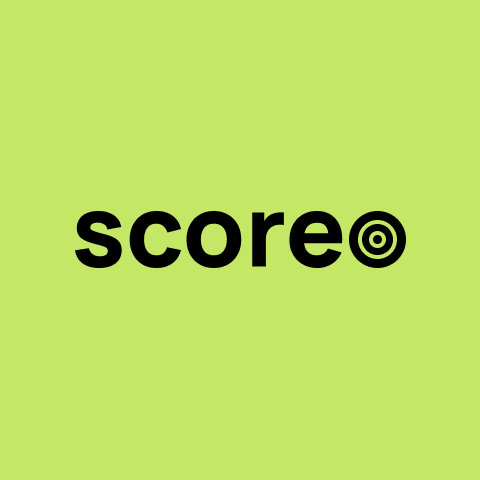
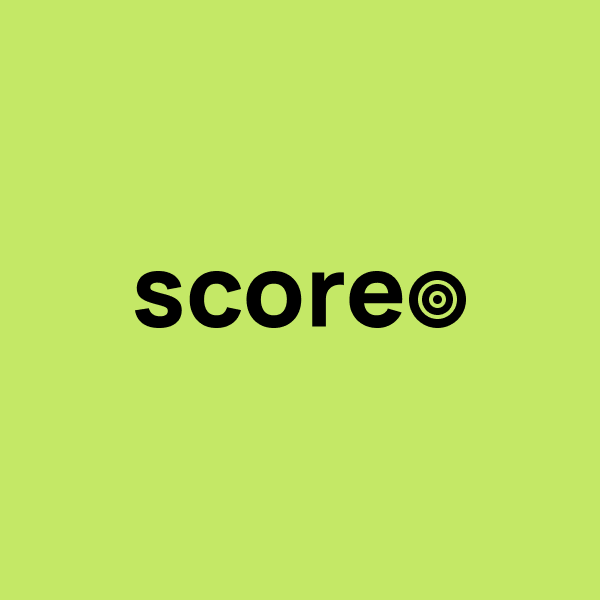
Add IntroScreen with scoreo_animation.mp4

Changed region(s): [[0.1562, 0.4375, 0.8438, 0.5625]]

diff --git a/frontend/src/screens/Intro/IntroScreen.tsx b/frontend/src/screens/Intro/IntroScreen.tsx
@@ -1,0 +1,62 @@
+import React, { useEffect } from 'react';
+import { StyleSheet, View } from 'react-native';
+import { useVideoPlayer, VideoView } from 'expo-video';
+import { useNavigation, CommonActions } from '@react-navigation/native';
+import { theme } from '../../theme/theme';
+
+const videoSource = require('../../../assets/scoreo_animation.mp4');
+
+export const IntroScreen = () => {
+    const navigation = useNavigation();
+
+    // 1. Inicializamos el reproductor
+    const player = useVideoPlayer(videoSource, (player) => {
+        player.loop = false;
+        player.play();
+    });
+
+    const handleNavigation = () => {
+        navigation.dispatch(
+            CommonActions.reset({
+                index: 0,
+                routes: [{ name: 'Login' }],
+            })
+        );
+    };
+
+    // 2. Escuchamos cuando el video termina
+    useEffect(() => {
+        const subscription = player.addListener('playToEnd', () => {
+            handleNavigation();
+        });
+
+        return () => {
+            subscription.remove();
+        };
+    }, [player]);
+
+    return (
+        <View style={styles.container}>
+            {/* 3. Usamos VideoView en lugar de Video */}
+            <VideoView
+                player={player}
+                style={styles.video}
+                contentMode="contain" // Equivale a ResizeMode.CONTAIN
+                nativeControls={false} // Quitamos los controles de play/pausa
+            />
+        </View>
+    );
+};
+
+const styles = StyleSheet.create({
+    container: {
+        flex: 1,
+        backgroundColor: theme.colors.background,
+        justifyContent: 'center',
+        alignItems: 'center',
+    },
+    video: {
+        width: '80%',
+        aspectRatio: 1,
+    },
+});

diff --git a/frontend/src/screens/Home/HomeScreen.tsx b/frontend/src/screens/Home/HomeScreen.tsx
@@ -19,32 +19,28 @@ export const HomeScreen = ({ route, navigation }) => {
     }
   };
 
-  const renderGameItem = ({ item }) => {
-    console.log(recentGames);
-    console.log(item);
-    return (
-      <Card style={styles.gameCard}>
-        <View style={styles.gameIconContainer}>
-          <Feather name="rotate-ccw" size={20} color={theme.colors.textSecondary} />
-        </View>
-        <View style={styles.gameInfo}>
-          <Text style={styles.gameTitle}>
-            {item.title}
-          </Text>
-          <Text style={styles.gamePlayers}>
-            {item.numPlayers} {item.numPlayers > 1 ? 'jugadores' : 'jugador'}
-          </Text>
-        </View>
-        <TouchableOpacity
-          style={styles.playButton}
-          activeOpacity={0.7}
-          onPress={() => onPressPlayRecent(item.config)}
-        >
-          <Feather name="play" size={20} color={theme.colors.textSecondary} />
-        </TouchableOpacity>
-      </Card>
-    );
-  };
+  const renderGameItem = ({ item, index }) => (
+    <Card key={item.id || index} style={styles.gameCard}>
+      <View style={styles.gameIconContainer}>
+        <Feather name="rotate-ccw" size={20} color={theme.colors.textSecondary} />
+      </View>
+      <View style={styles.gameInfo}>
+        <Text style={styles.gameTitle}>
+          {item.title}
+        </Text>
+        <Text style={styles.gamePlayers}>
+          {item.numPlayers} {item.numPlayers > 1 ? 'jugadores' : 'jugador'}
+        </Text>
+      </View>
+      <TouchableOpacity
+        style={styles.playButton}
+        activeOpacity={0.7}
+        onPress={() => onPressPlayRecent(item.config)}
+      >
+        <Feather name="play" size={20} color={theme.colors.textSecondary} />
+      </TouchableOpacity>
+    </Card>
+  );
 
   return (
     <ScrollView
@@ -79,7 +75,7 @@ export const HomeScreen = ({ route, navigation }) => {
         <Text style={styles.sectionTitle}>PARTIDAS RECIENTES</Text>
         <View style={styles.listContainer}>
           {recentGames && recentGames.length > 0 ? (
-            recentGames.map((game) => renderGameItem({ item: game }))
+            recentGames.map((game, index) => renderGameItem({ item: game, index }))
           ) : (
             <Text style={styles.emptyText}>
               No se han encontrado partidas recientes

diff --git a/frontend/src/navigation/AppNavigator.tsx b/frontend/src/navigation/AppNavigator.tsx
@@ -1,16 +1,20 @@
 import React from 'react';
 import { NavigationContainer } from '@react-navigation/native';
 import { createNativeStackNavigator } from '@react-navigation/native-stack';
+
+import { IntroScreen } from '../screens/Intro/IntroScreen';
 import { LoginScreen } from '../screens/Login/LoginScreen';
 import { HomeScreen } from '../screens/Home/HomeScreen';
 import { ConfigX01Screen } from '../screens/ConfigX01/ConfigX01Screen';
 import { GameX01Screen } from '../screens/GameX01/GameX01Screen';
 import { MatchX01SummaryScreen } from '../screens/MatchX01Summary/MatchX01SummaryScreen';
-import { theme } from '../theme/theme';
-
 import { MyProfileScreen } from '../screens/MyProfile/MyProfileScreen';
 
+import { theme } from '../theme/theme';
+
+
 export type AppStackParamList = {
+  Intro: undefined;
   Login: undefined;
   HomeScreen: undefined;
   ConfigX01: undefined;
@@ -46,6 +50,11 @@ export const AppNavigator = () => {
           headerRight: () => <AvatarDropdown />,
         }}
       >
+        <Stack.Screen
+          name="Intro"
+          component={IntroScreen}
+          options={{ title: 'scoreo' }}
+        />
         <Stack.Screen
           name="Login"
           component={LoginScreen}

diff --git a/backend/src/infrastructure/repositories/AsyncStorageMatchX01Repository.ts b/backend/src/infrastructure/repositories/AsyncStorageMatchX01Repository.ts
@@ -63,7 +63,6 @@ export class AsyncStorageMatchX01Repository implements IMatchX01Repository {
 
             // 3. Persistir
             const dtosToSave = toSave.map(c => MatchX01Mapper.configToDTO(c));
-            console.log("DTOS TO SAVE:", dtosToSave);
             await AsyncStorage.setItem(this.RECENT_KEY, JSON.stringify(dtosToSave));
         } catch (error) {
             console.error('Error saving recent config', error);